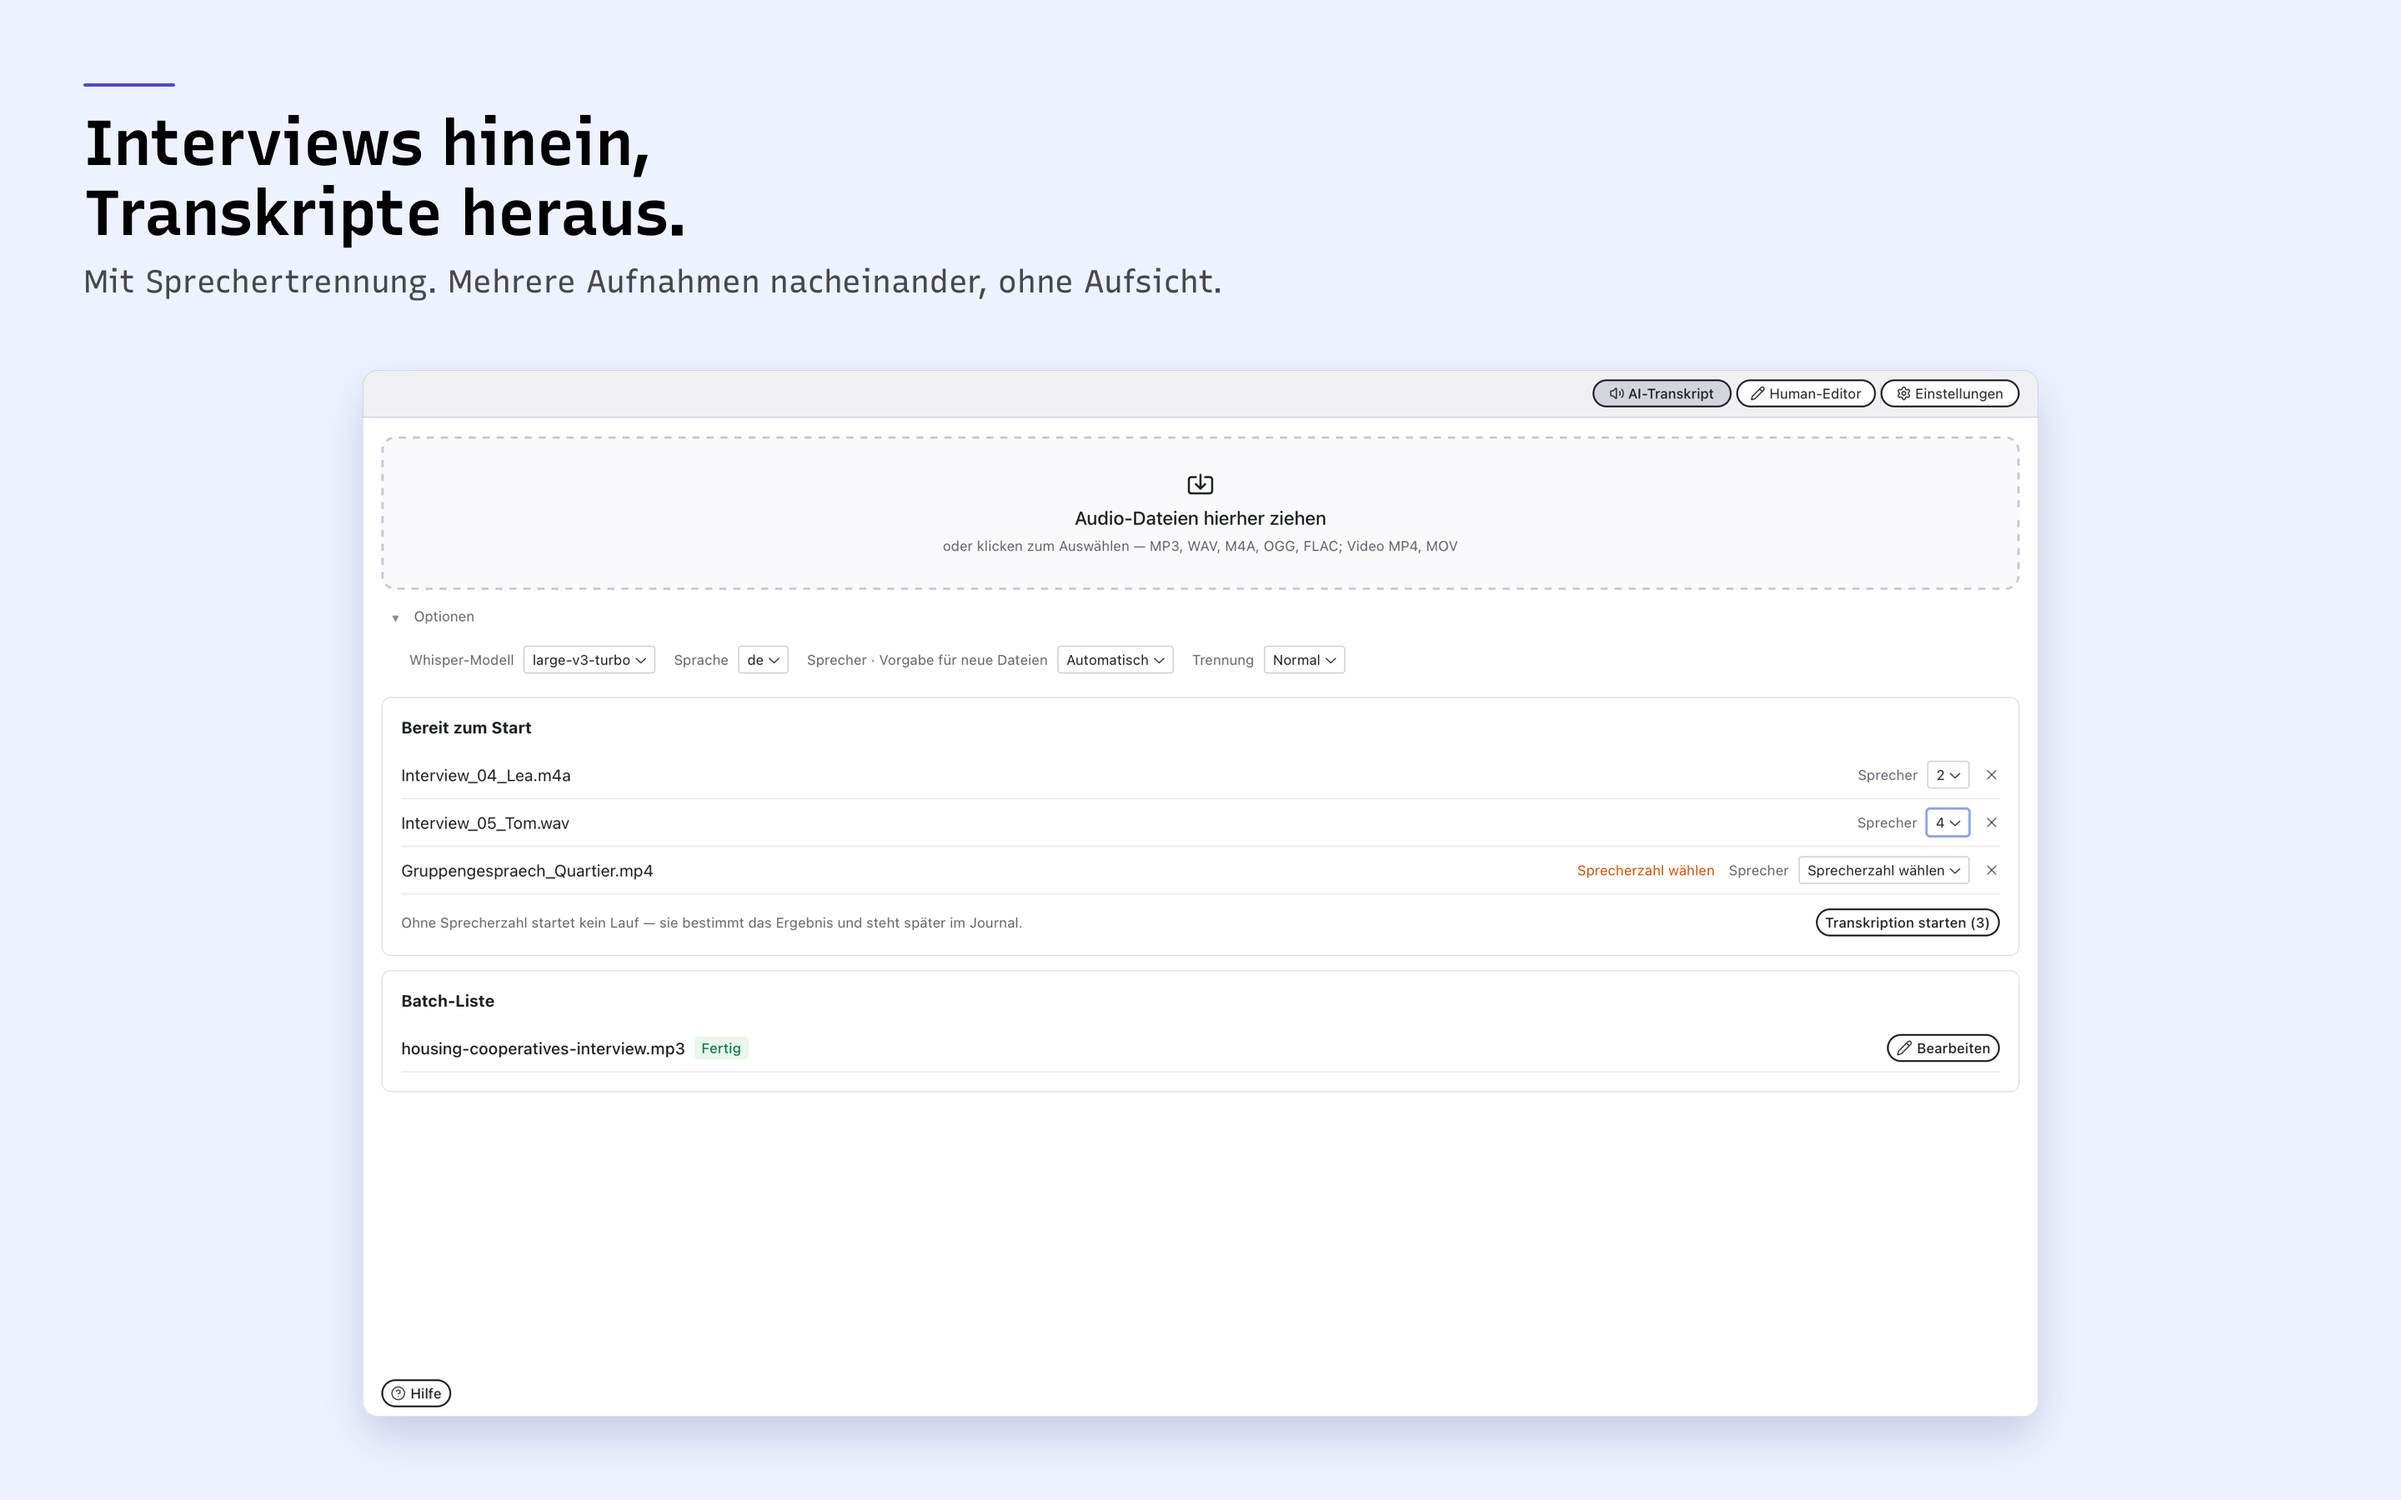
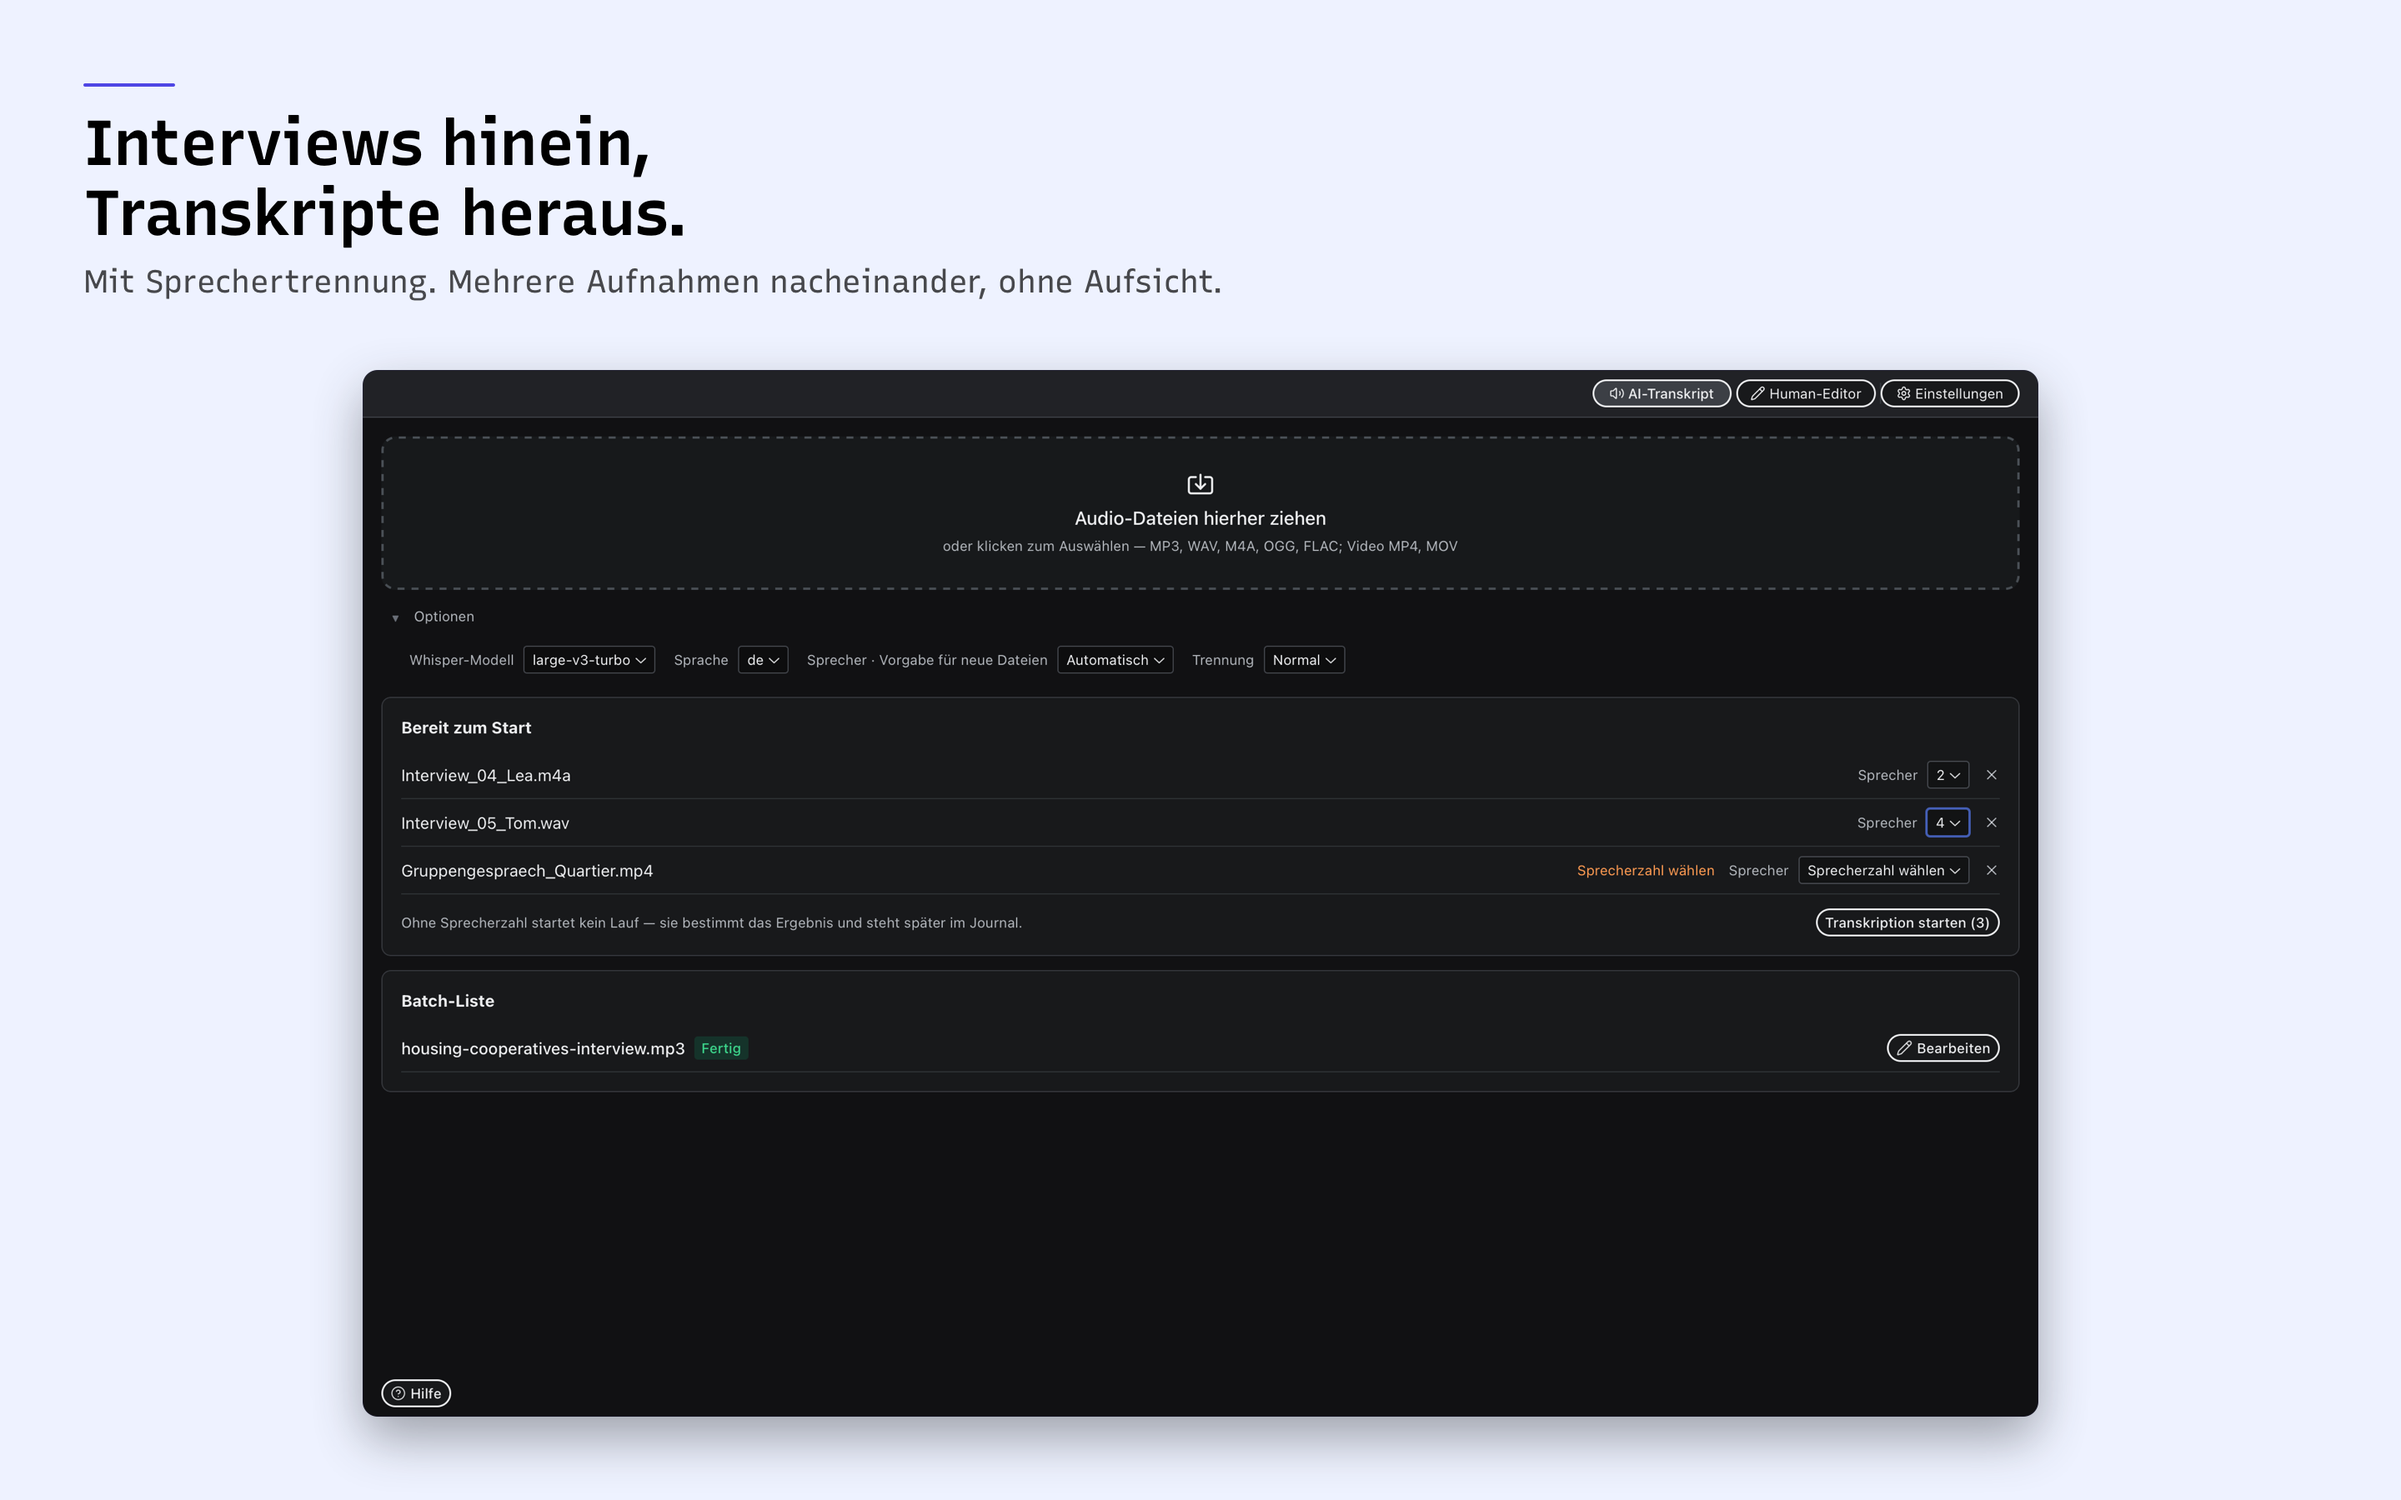
Warteliste als Store-Bild im dunklen Erscheinungsbild
Die Liste ist kurz; im hellen Modus wirkte die freie Flaeche darunter leer.
Dunkel steht das Fenster ruhig und hebt sich vom hellen Grund ab. Zwei der
neun Motive sind jetzt dunkel, das gibt der Reihe Rhythmus.

Claude-Session: https://claude.ai/code/session_01VhoDoDyamQwRzZ3dqypMTk

diff --git a/appstore/texte/bildtexte.md b/appstore/texte/bildtexte.md
@@ -52,7 +52,7 @@ Die ersten drei sieht man im Store ohne Blättern.
 | 1 | `01-editor.png` | Editor mit Transkript, zwei Sprechenden, Wellenform unten |
 | 2 | `01b-bearbeiten.png` | **neu** — eine Zeile offen im Text, Einfügepunkt sichtbar |
 | 3 | `08-einstellungen.png` | **neu** — Einstellungen, Karte Datenschutz und Lizenzen |
-| 4 | `02-ai-transkript.png` | Warteliste mit mehreren Dateien und Sprecherzahl |
+| 4 | `02-ai-transkript.png` | Warteliste mit mehreren Dateien und Sprecherzahl — **im dunklen Erscheinungsbild**: die Liste ist kurz, im hellen Modus wirkt die freie Fläche darunter leer |
 | 5 | `03-export.png` | offenes Export-Menü mit allen Formaten |
 | 6 | `04-suchen-ersetzen.png` | Suchen und Ersetzen mit Treffern |
 | 7 | `05-sprecherfarbe.png` | Sprechende benennen und färben |
